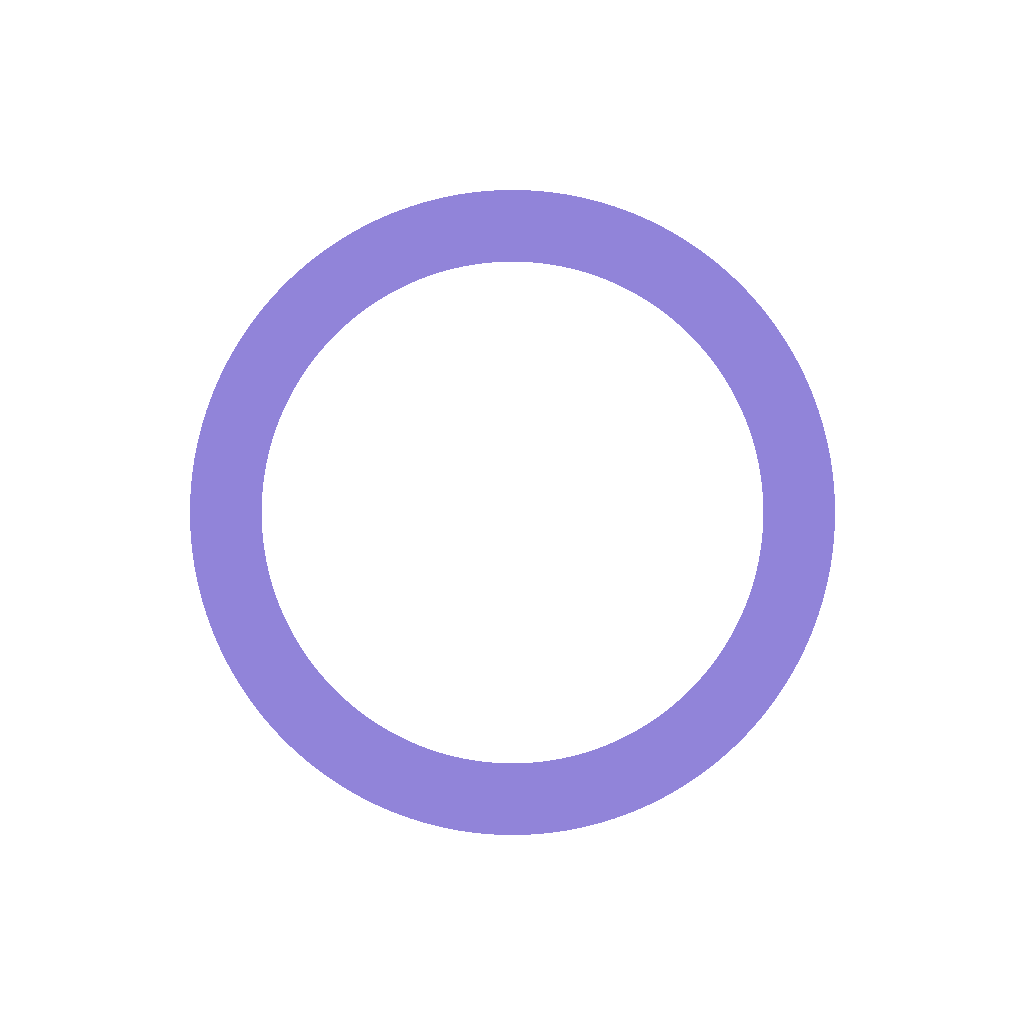
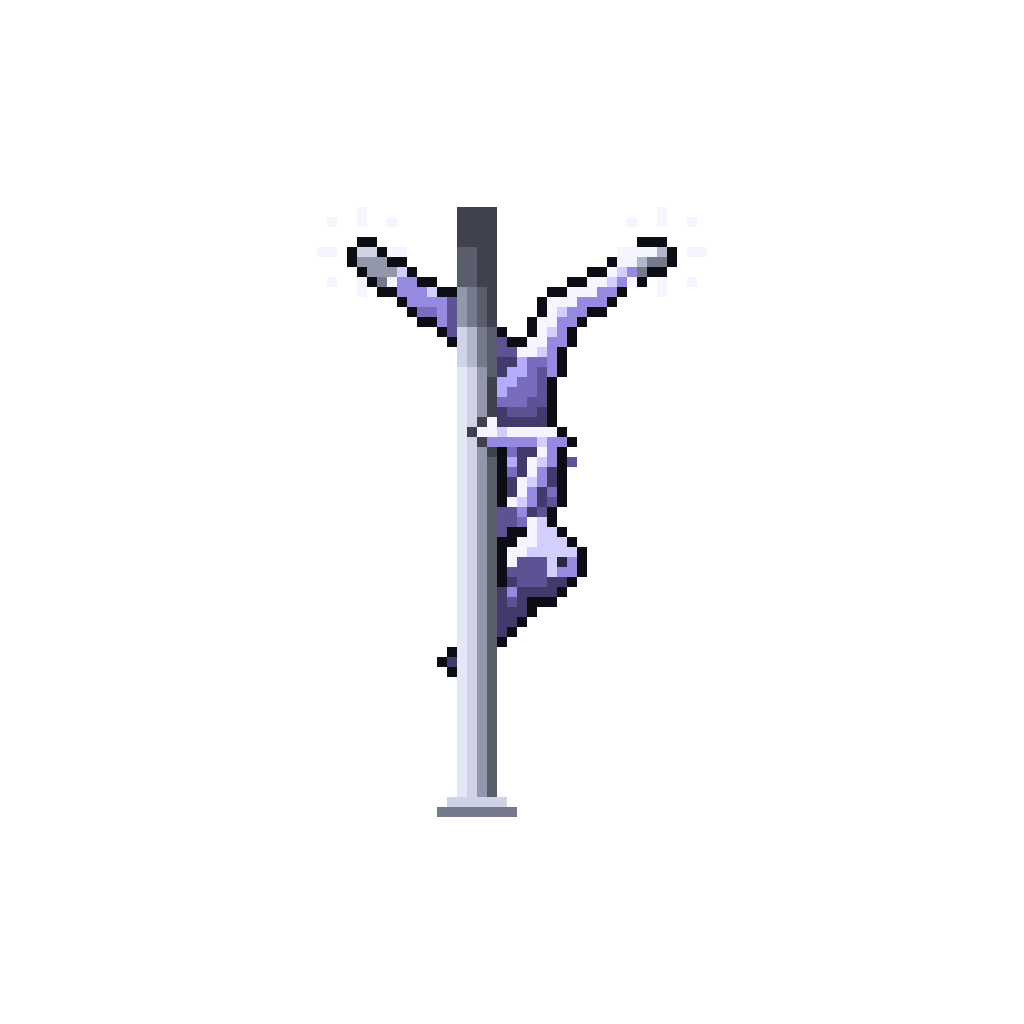
feat: naturalniejsza animacja splash i ikona z pikselowej tancerki
- Choreografia: wejście i zejście z odwrócenia „w kulce” (kolana przy klatce, biodra przy rurze)
  zamiast ciała wyrzucanego poziomo; biodra nie przechodzą przez rurę, nogi opadają pod biodra.
- Test naturalności: nogi ≤ 17 px i biodra ≤ 8 px od rury przy wejściu i zejściu (`pose(t)`).
- Ikona, ikona adaptacyjna i grafika splash z klatek silnika zamiast zastępczego okręgu.

Changed region(s): [[0.1875, 0.1875, 0.8125, 0.8125]]

diff --git a/apps/mobile/src/ui/splash/pole-engine.js b/apps/mobile/src/ui/splash/pole-engine.js
@@ -1,6 +1,7 @@
 // Silnik animacji splash (IMP-211): port `design/pole-spinner.js` bez DOM – rysuje klatkę 80×70
 // do bufora RGBA (`out`, piksele ABGR little-endian jak ImageData). Algorytm bez zmian względem
-// prototypu; paleta z tokenów Nocturne zamiast zmiennych CSS, losowość wstrzykiwana (testy).
+// prototypu poza choreografią (wejście i zejście z odwrócenia w kulce – 6.11.2026); paleta
+// z tokenów Nocturne zamiast zmiennych CSS, losowość wstrzykiwana (testy).
 const Q = 1.25,
   GW = 80,
   GH = 70,
@@ -56,6 +57,9 @@ const K = (t, P, a, hd, f, pf, hN, eN, hF, eF, fN, kN, fF, kF) => ({
   fF,
   kF,
 });
+// Choreografia (pętla 5,5 s): krok i obrót przy rurze → wejście w odwrócenie „w kulce” (kolana przy klatce,
+// biodra przy rurze) → odwrócony szpagat (V) → zejście tą samą drogą w kulce → zejście na podłogę → obejście rury.
+// Biodra nie przechodzą przez rurę, nogi nie odlatują wyprostowane na bok (próba 6.11.2026).
 const KF = [
   K(
     0.0,
@@ -121,22 +125,40 @@ const KF = [
     [3.2, 44.5],
     [-1, -0.2],
   ),
+  // Kulka: biodra w górę i do rury, kolana do klatki, tułów odchyla się do tyłu.
+  K(
+    1.6,
+    [3.6, 28.5],
+    24,
+    10,
+    -1,
+    1,
+    [0.8, 17.5],
+    [0.5, 1],
+    [0.8, 22.5],
+    [0.3, 1],
+    [0.6, 32],
+    [-1, -0.6],
+    [2.4, 33],
+    [-1, -0.4],
+  ),
   K(
     1.85,
-    [-4.3, 24],
-    90,
-    10,
+    [1.8, 24.5],
+    85,
+    12,
     -1,
     1,
     [0.8, 21],
     [0, -1],
     [0.8, 26.5],
     [0, 1],
-    [-5.5, 10.5],
-    [-1, 0],
-    [-2.5, 11],
-    [-1, 0],
+    [-0.4, 19.5],
+    [0.3, -1],
+    [1.6, 18.8],
+    [0.3, -1],
   ),
+  // Wyprost z kulki do odwróconego szpagatu i zatrzymanie.
   K(
     2.35,
     [3.4, 16.7],
@@ -169,24 +191,73 @@ const KF = [
     [-9.5, 8.5],
     [0, -1],
   ),
+  // Zejście: nogi razem, kolana zgięte, ta sama droga w kulce.
   K(
-    3.35,
-    [15.3, 25.7],
-    265,
-    -20,
+    3.05,
+    [3.4, 17.2],
+    172,
+    12,
     -1,
-    1,
-    [0.8, 22.5],
-    [0, -1],
-    [0.8, 29],
-    [0, 1],
-    [12.5, 39],
+    0,
+    [0.8, 19.5],
+    [1, 0],
+    [0.8, 33],
     [-1, 0],
-    [16.5, 39.5],
-    [-1, 0],
+    [1.5, 8.5],
+    [1, 0],
+    [4, 8.2],
+    [1, 0],
   ),
   K(
-    3.85,
+    3.4,
+    [1.8, 24],
+    88,
+    8,
+    -1,
+    1,
+    [0.8, 21],
+    [0, -1],
+    [0.8, 27],
+    [0, 1],
+    [-0.3, 19],
+    [0.3, -1],
+    [1.6, 18.5],
+    [0.3, -1],
+  ),
+  K(
+    3.53,
+    [2.8, 26.8],
+    50,
+    0,
+    -1,
+    1,
+    [0.8, 19],
+    [0.5, 1],
+    [0.8, 24.5],
+    [0.3, 1],
+    [2, 34.5],
+    [-1, -0.2],
+    [4, 35],
+    [-1, -0.2],
+  ),
+  K(
+    3.68,
+    [4, 29.5],
+    18,
+    -6,
+    -1,
+    1,
+    [0.8, 17],
+    [1, 0.6],
+    [0.8, 22],
+    [0.3, 1],
+    [2.5, 41],
+    [-1, -0.3],
+    [5, 42],
+    [-1, -0.2],
+  ),
+  K(
+    3.95,
     [6, 33.8],
     6,
     -10,
@@ -839,6 +910,9 @@ export class PoleEngine {
 }
 
 export const GRID = { width: GW, height: GH, fps: FPS, loop: LOOP };
+
+/** Szkielet w czasie `t` (piksele siatki; rura w x = 40) – testy naturalności ruchu. */
+export const pose = (t) => skel(t, {});
 
 /** Klatka czasu `t` (s) bez symulacji historii – statyczna klatka przy „Ogranicz ruch”. */
 export function renderStill(palette, t) {

diff --git a/apps/mobile/src/ui/__tests__/splash.test.tsx b/apps/mobile/src/ui/__tests__/splash.test.tsx
@@ -1,5 +1,5 @@
 import { act, renderWithProviders, screen } from '../../test-utils/render';
-import { GRID, PoleEngine, renderStill } from '../splash/pole-engine';
+import { GRID, PoleEngine, pose, renderStill } from '../splash/pole-engine';
 import { SPLASH_MIN_MS, SplashScreen } from '../splash/SplashScreen';
 import { POLE_PALETTE } from '../splash/usePoleFrames';
 
@@ -14,6 +14,25 @@ describe('splash (IMP-211)', () => {
     expect(a.out).toHaveLength(GRID.width * GRID.height);
     expect(Array.from(a.out)).toEqual(Array.from(b.out));
     expect(new Set(a.out).size).toBeGreaterThan(8);
+  });
+
+  it('wejście i zejście z odwrócenia blisko rury – bez ciała wyrzuconego w bok (próba 6.11.2026)', () => {
+    const POLE_X = GRID.width / 2;
+    for (const [from, to] of [
+      [1.35, 2.3],
+      [2.8, 3.9],
+    ] as const) {
+      let legs = 0;
+      let hips = 0;
+      for (let t = from; t <= to; t += 1 / GRID.fps) {
+        const s = pose(t);
+        hips = Math.max(hips, Math.abs(s.P[0] - POLE_X));
+        for (const p of [s.lN.m, s.lN.e, s.lF.m, s.lF.e]) legs = Math.max(legs, Math.abs(p[0] - POLE_X));
+      }
+      // Poprzednia choreografia: nogi do 33,5 px, biodra do 19,5 px od rury przy zejściu.
+      expect(legs).toBeLessThanOrEqual(17);
+      expect(hips).toBeLessThanOrEqual(8);
+    }
   });
 
   it('TC-DESIGN-016/019: statyczna klatka jest powtarzalna (źródło wzorca zrzutu)', () => {

diff --git a/apps/mobile/src/ui/splash/pole-engine.d.ts b/apps/mobile/src/ui/splash/pole-engine.d.ts
@@ -17,3 +17,8 @@ export class PoleEngine {
 
 /** Statyczna klatka czasu `t` (s) – tryb „Ogranicz ruch”. */
 export function renderStill(palette: PolePalette, t: number): Uint32Array;
+
+type Pt = [number, number];
+type Limb = { m: Pt; e: Pt };
+/** Szkielet w czasie `t` (piksele siatki; rura w x = 40) – testy naturalności ruchu. */
+export function pose(t: number): { P: Pt; S: Pt; N: Pt; lN: Limb; lF: Limb; aN: Limb; aF: Limb };

diff --git a/CLAUDE.md b/CLAUDE.md
@@ -134,7 +134,7 @@ Dokumentacja: `docs/` (start: `docs/README.md`). Plany zadań: `docs/04-implemen
   - IMP-218: `scrubPii`/`scrubText` w `@polechamp/contracts` (`src/privacy.ts`); plugin Sentry i `expo-updates` włączane dopiero po `SENTRY_ORG`/`SENTRY_PROJECT`/`EAS_PROJECT_ID`; DSN z `EXPO_PUBLIC_SENTRY_DSN`.
   - IMP-212: trasa `/catalog` (nie `/dev/catalog`); wykluczenie z produkcji przez stały warunek `__DEV__ || EXPO_PUBLIC_APP_VARIANT === 'preview'` w `src/dev/catalog/load.ts` (Metro usuwa martwą gałąź).
   - IMP-220: ekrany = zaślepki `RoutePlaceholder` (EP-07/08); typed routes wyłączone (generowane typy zależały od środowiska). Linki uniwersalne `polechamp.app/{reset,pair}` w `app.config.ts`.
-  - Wartości zastępcze (`apps/mobile/.env.example`): `EAS_PROJECT_ID`, `APPLE_TEAM_ID`, `SENTRY_ORG/PROJECT`, DSN, linki sklepów; ikona/splash – placeholdery PNG.
+  - Wartości zastępcze (`apps/mobile/.env.example`): `EAS_PROJECT_ID`, `APPLE_TEAM_ID`, `SENTRY_ORG/PROJECT`, DSN, linki sklepów; ikona/splash – pikselowa tancerka z silnika splash (6.11.2026, do akceptacji IMP-650).
   - Nowe zależności mobile: Expo SDK 58 (expo-router, -camera, -splash-screen, -font, -secure-store, -screen-orientation, -sqlite, -crypto, -linear-gradient, -updates, …), Reanimated 4.7, Gesture Handler 3.3, keyboard-controller 1.22, Skia 2.14, phosphor-react-native 3, TanStack Query 5 (+ persist), MMKV 4 + Nitro, openapi-fetch 0.17, socket.io-client 4.8, react-i18next 17, react-hook-form + @hookform/resolvers, @sentry/react-native 8.28, datetimepicker 9.2; dev: jest 30, jest-expo, RNTL 14, msw 2, better-sqlite3, reassure. `allowBuilds`: `@parcel/watcher`, `unrs-resolver`, `better-sqlite3`, `msw`, `@sentry/cli` – wyłączone (binaria w pakietach).
 - Odstępstwa EP-05 od planu:
   - Worker: `WorkerRuntime` (`src/worker/runtime.ts`) + kontekst Nest `WorkerModule` (`src/worker/bootstrap.ts`, `startWorker`); kolejka `email` zachowuje własne opcje producenta (5 prób). DLQ = kolejka `dead-letter` + log `alert: worker_dead_letter`. Metryki EMF jako logi JSON (brak CloudWatch); `pdf_render_ms` tylko w `PdfProcessor.renderMs`.

diff --git a/docs-dev/qa/release-1.0-2026-11-06.md b/docs-dev/qa/release-1.0-2026-11-06.md
@@ -93,7 +93,7 @@ U2–U7 wprowadzone tego samego dnia na prośbę użytkownika (specyfikacja ozna
 
 1. **Konta i EAS (IMP-550, IMP-023):** projekt EAS, `EAS_PROJECT_ID`, poświadczenia podpisu, App Store Connect i Google Play; build `production` przez EAS nigdy nie powstał.
 2. **Produkcja (IMP-555):** `infra/terraform` jest pusty – brak `api.polechamp.app`, S3, SES, Valkey, sekretów; `SHUTDOWN_DELAY_MS=30000` do ustawienia w ECS.
-3. **Grafika:** ikona i splash to zastępczy okrąg (`assets/icon.png`) – akceptacja projektanta (IMP-650); zrzuty sklepowe i opisy (IMP-551).
+3. **Grafika:** ikona, ikona adaptacyjna i splash z pikselowej tancerki silnika splash (6.11.2026) – do akceptacji projektanta (IMP-650); zrzuty sklepowe i opisy (IMP-551).
 4. **Prawne (Q-10):** regulamin, polityka prywatności, umowa powierzenia i strona usunięcia konta w `apps/site` to szkice „PROJEKT”; deklaracje prywatności sklepów (IMP-407).
 5. **Obserwowalność:** brak `EXPO_PUBLIC_SENTRY_DSN`, `SENTRY_ORG/PROJECT` – brak raportów awarii w dniu zawodów.
 6. **Linki sklepów:** `EXPO_PUBLIC_APP_STORE_URL` / `PLAY_STORE_URL` – wartości zastępcze (ekran wymuszonej aktualizacji).
